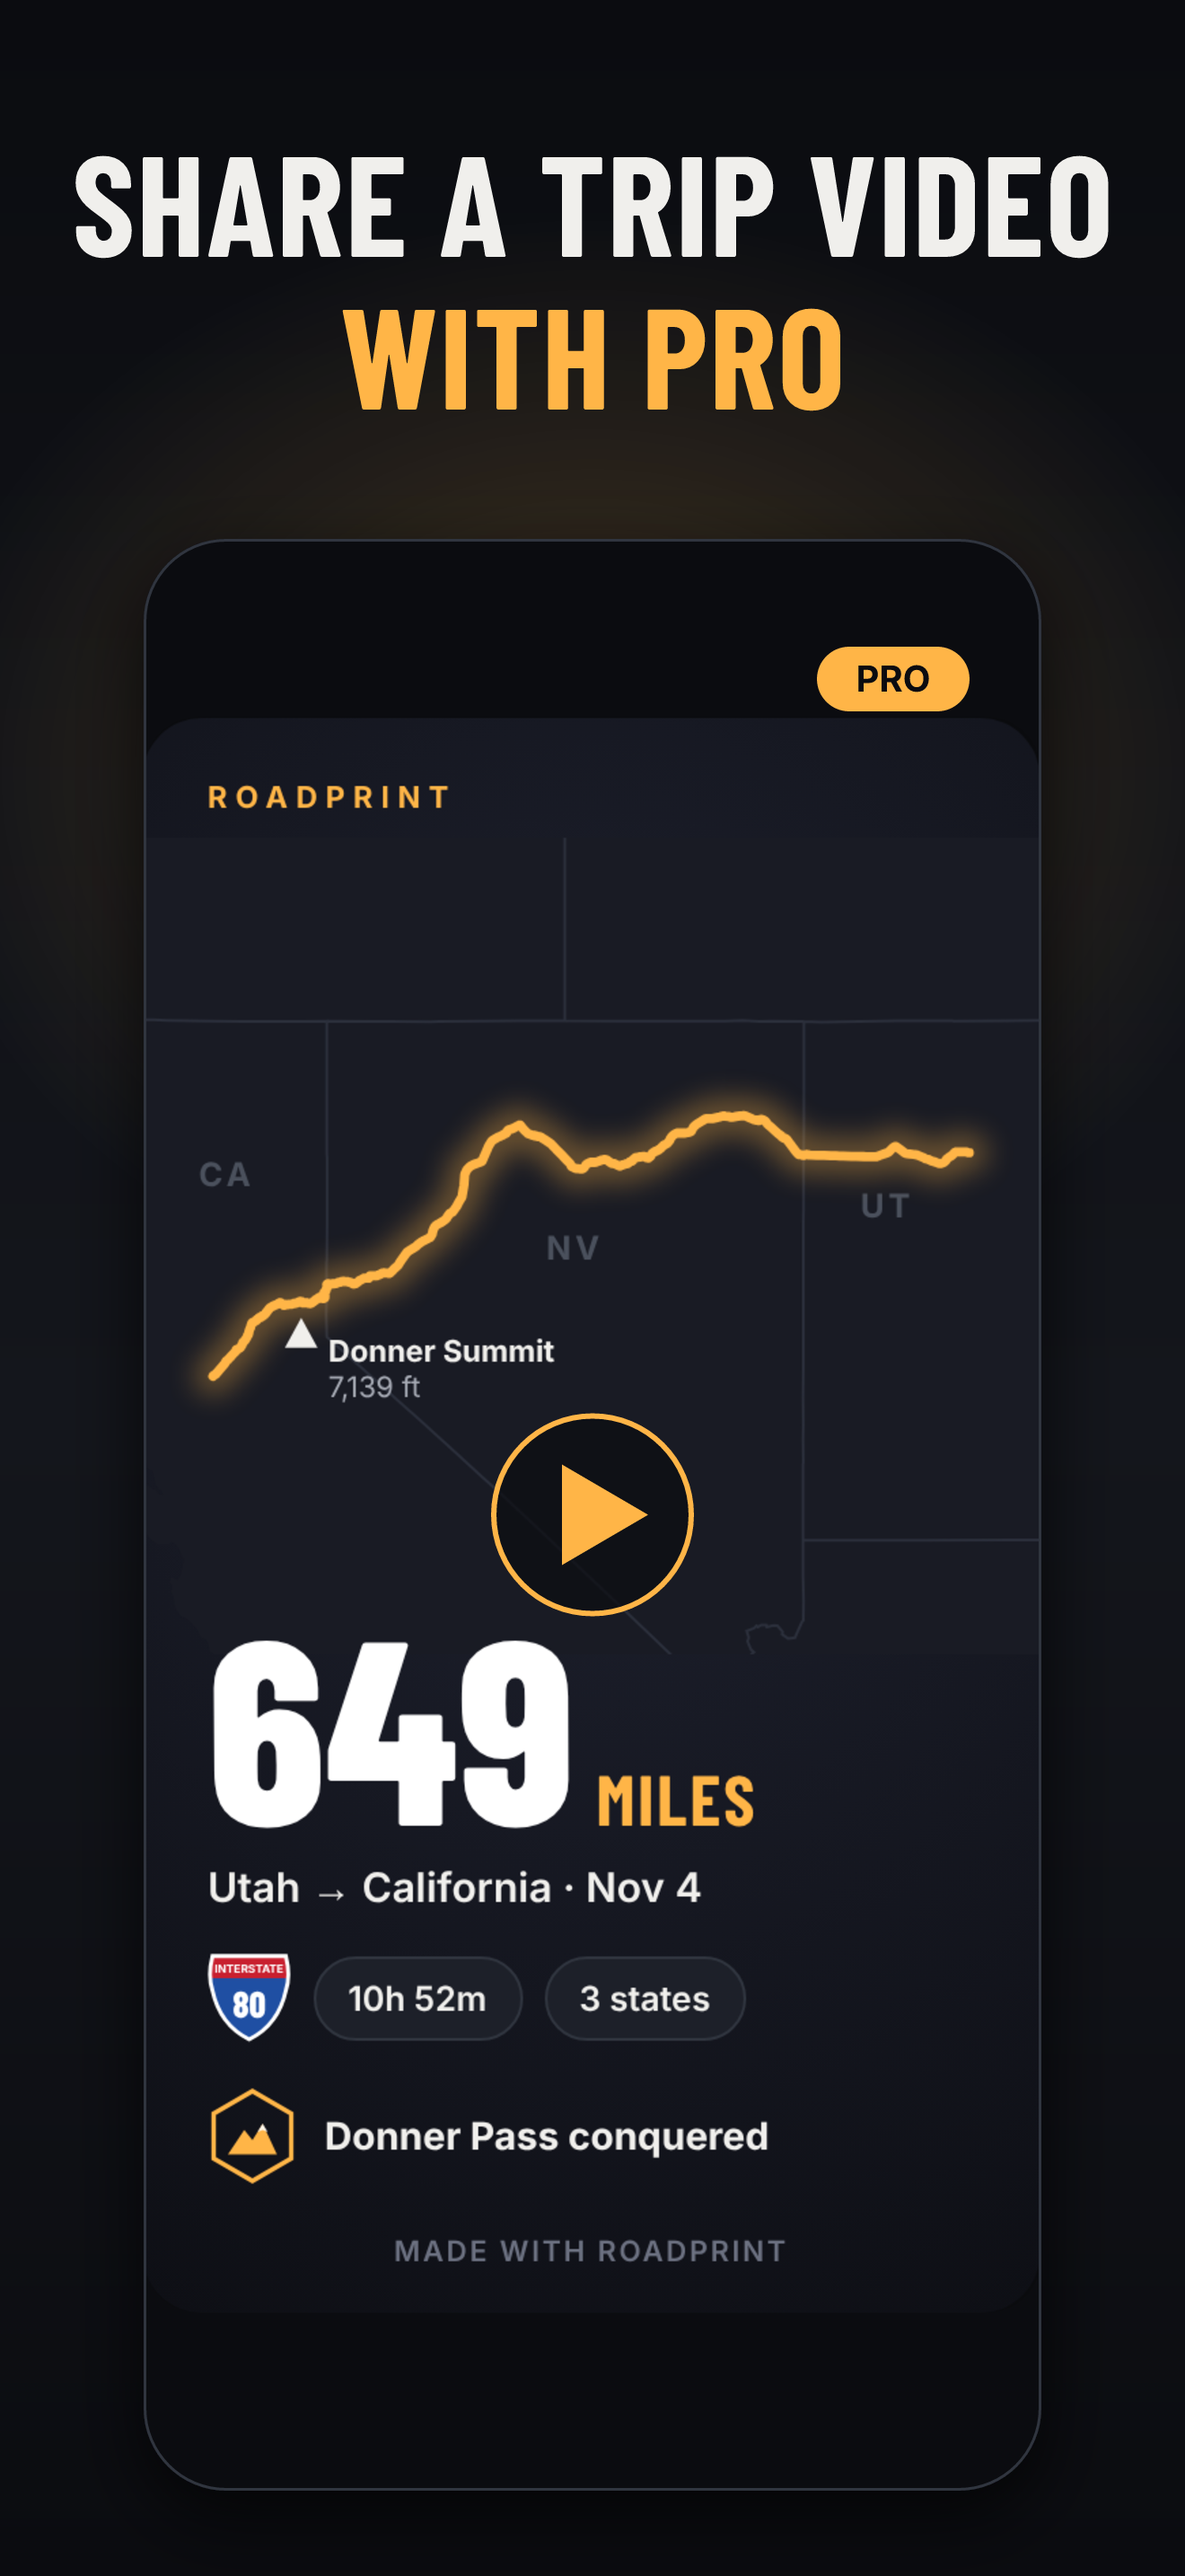
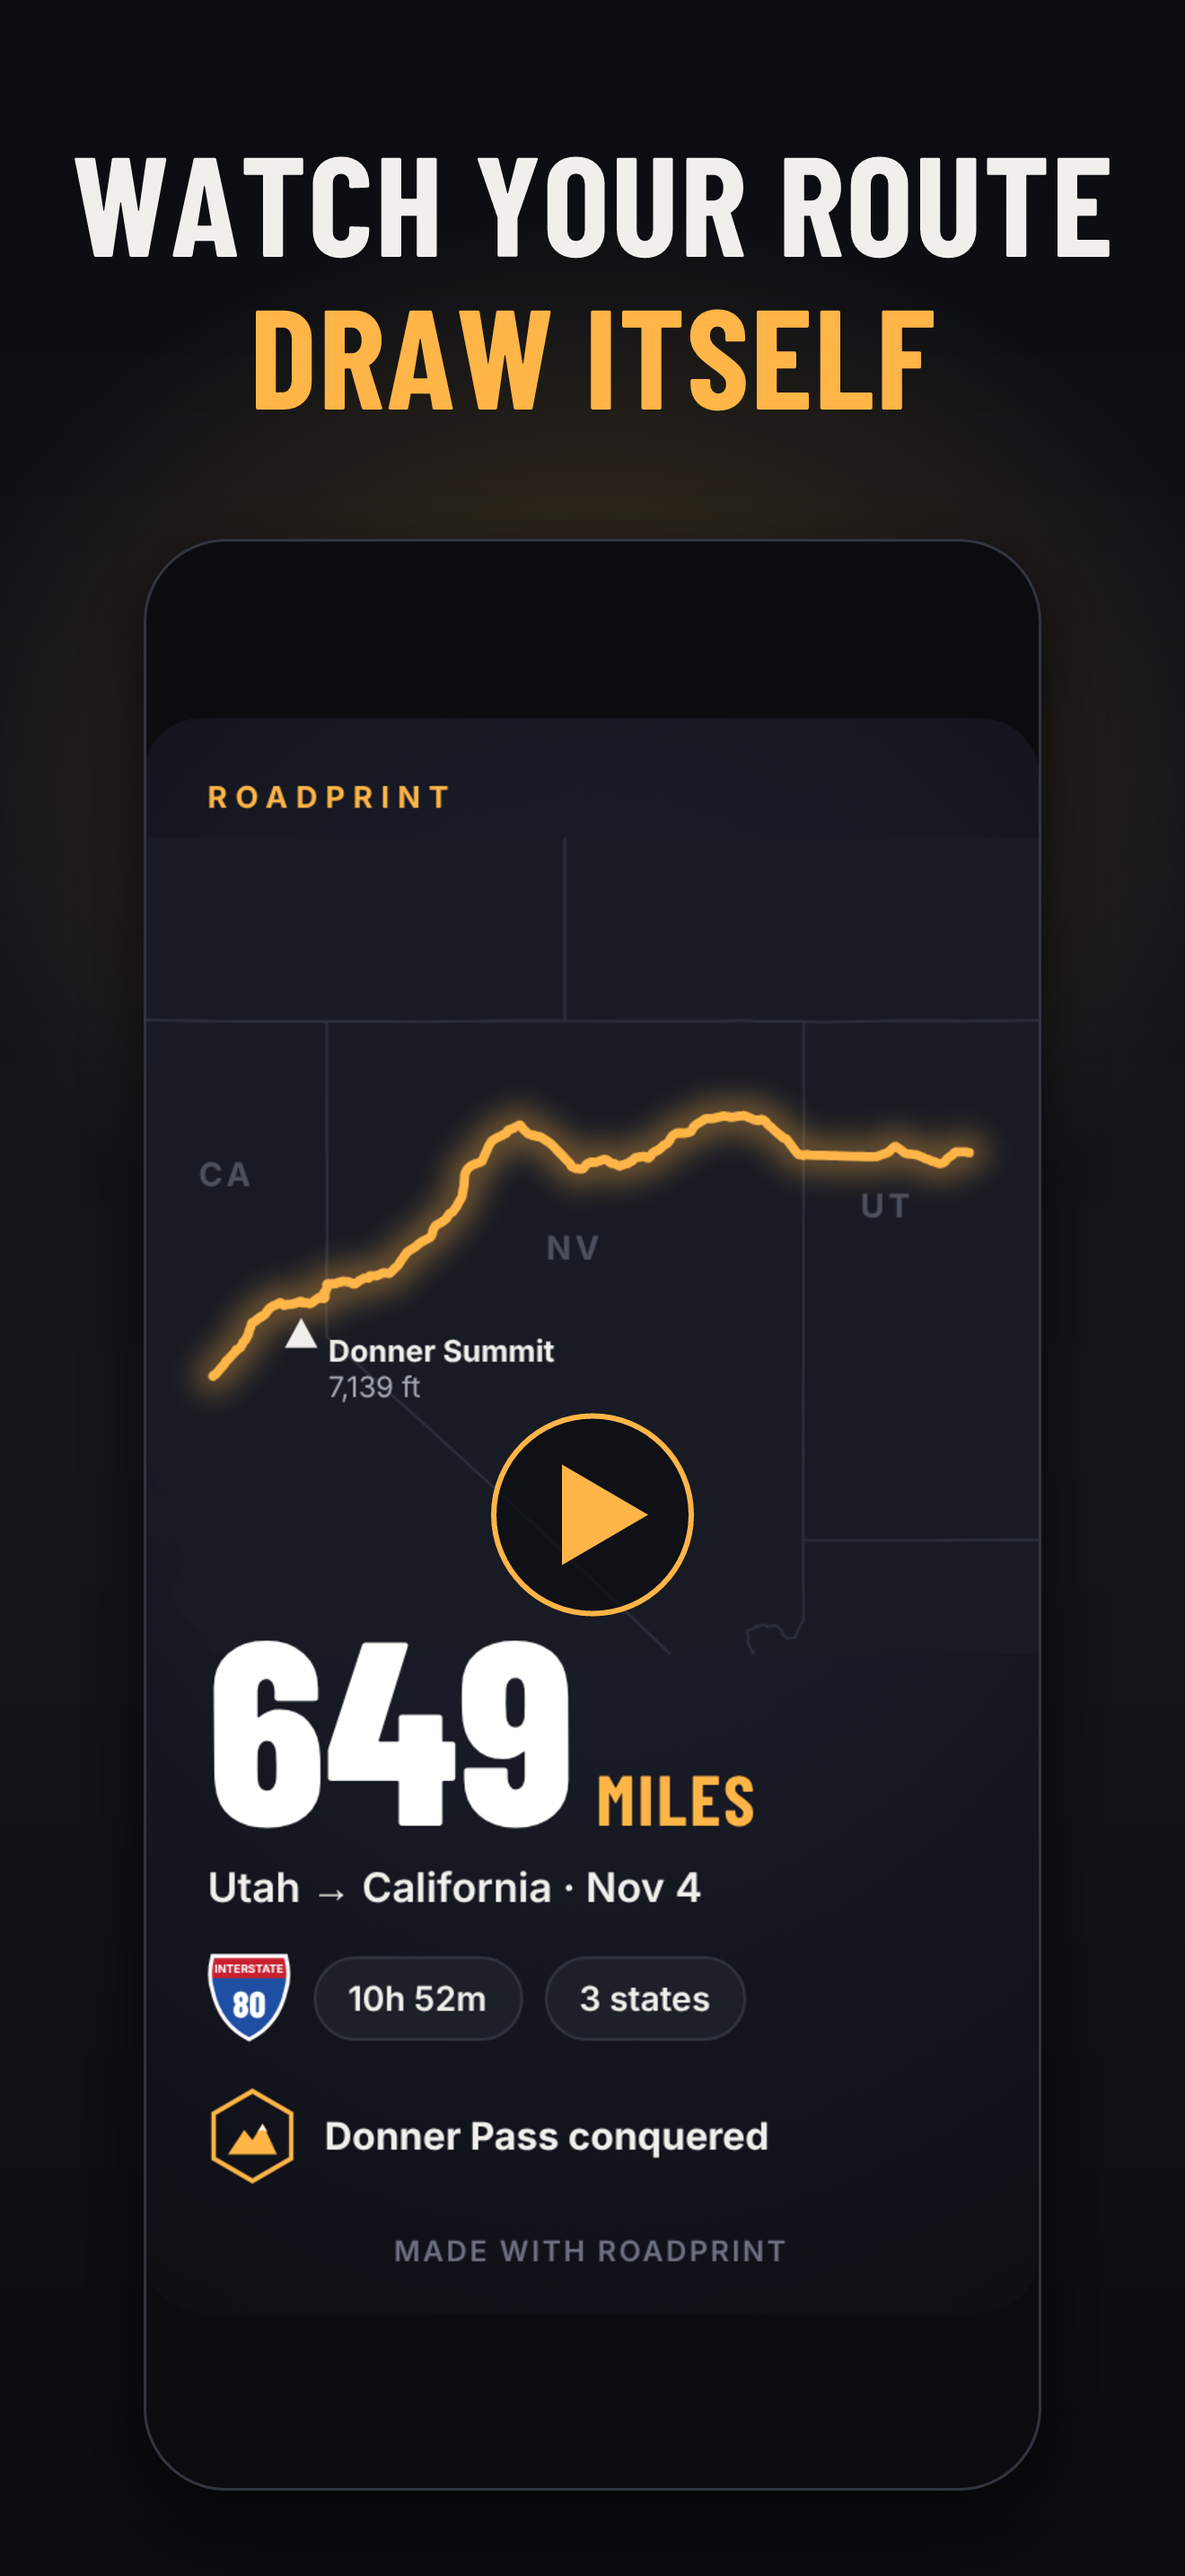
ROA-96: Drop the Pro claim from caption 5; 1.0 has no Pro tier
Platform's capture shows Video available in the 1.0 build with no Pro
session, so 'with Pro' would advertise a purchase the app doesn't sell.

Changed region(s): [[0.0621, 0.0621, 0.9629, 0.1862], [0.6833, 0.2483, 0.8386, 0.2793]]

diff --git a/Design/appstore/README.md b/Design/appstore/README.md
@@ -8,20 +8,20 @@ Five framed screenshots for the 1.0 listing (plan §12.2). Each one has a night 
 | 02 | SEND A POSTCARD / FROM THE ROAD | Share sheet, Night Highway (`02-night-highway`) |
 | 03 | ALL YOUR ROADS, / ONE MAP | My map, lifetime, several distinct roads (`03-my-map`) |
 | 04 | ONE TAP / BEFORE YOU GO | Drive, idle (`04-drive`) |
-| 05 | SHARE A TRIP VIDEO / WITH PRO | Share sheet, Video state in a Pro session (`05-…`, the fifth file by name) |
+| 05 | WATCH YOUR ROUTE / DRAW ITSELF | Share sheet, Video tab mid-draw (`05-trip-card-video`) |
 
-The inputs are matched by sorted file name, so ROA-95's fifth capture lands in 05 whatever its exact name. No light-theme or Road Atlas promotion: the board wants the night look and the Pro video instead.
+The inputs are matched by sorted file name, so ROA-95's fifth capture lands in 05 whatever its exact name. No light-theme or Road Atlas promotion: the board wants the night look and the trip video instead. The caption doesn't say Pro, because 1.0 sells no Pro tier yet; add WITH PRO only when the build gates Video behind Pro.
 
 - `frame.svg` is the 1320 × 2868 template. `caption-line-1` and `caption-line-2` are text placeholders, and `screenshot-placeholder` is the screen area (x 160, y 600, 1000 × 2173, corner radius 92).
 - `out/01.png` to `out/05.png` are the files to upload. They are exactly 1320 × 2868, 8-bit RGB, with no alpha channel.
-- `previews/` is the same frame with crops of `docs/plan/mockups/` standing in (05 adds a play button and PRO pill over the Night Highway card) until the real screenshots arrive. Don't upload these.
+- `previews/` is the same frame with crops of `docs/plan/mockups/` standing in (05 adds a play button over the Night Highway card) until the real screenshots arrive. Don't upload these.
 - Contrast: #f0efec on the background is at least 15.7:1, and amber #ffb547 is at least 10.3:1.
 
 ## Regenerate
 
 ```bash
 cd Tools/design && npm ci && node fetch-fonts.mjs
-node appstore.mjs --in /path/to/raw-screenshots   # the 5 PNGs from the ROA-95 `appstore-screenshots` artifact (01-trip-summary … 05, the Pro video)
+node appstore.mjs --in /path/to/raw-screenshots   # the 5 PNGs from the ROA-95 `appstore-screenshots` artifact (01-trip-summary … 05-trip-card-video)
 node appstore.mjs                                 # no input: stand-ins into previews/
 ```
 
